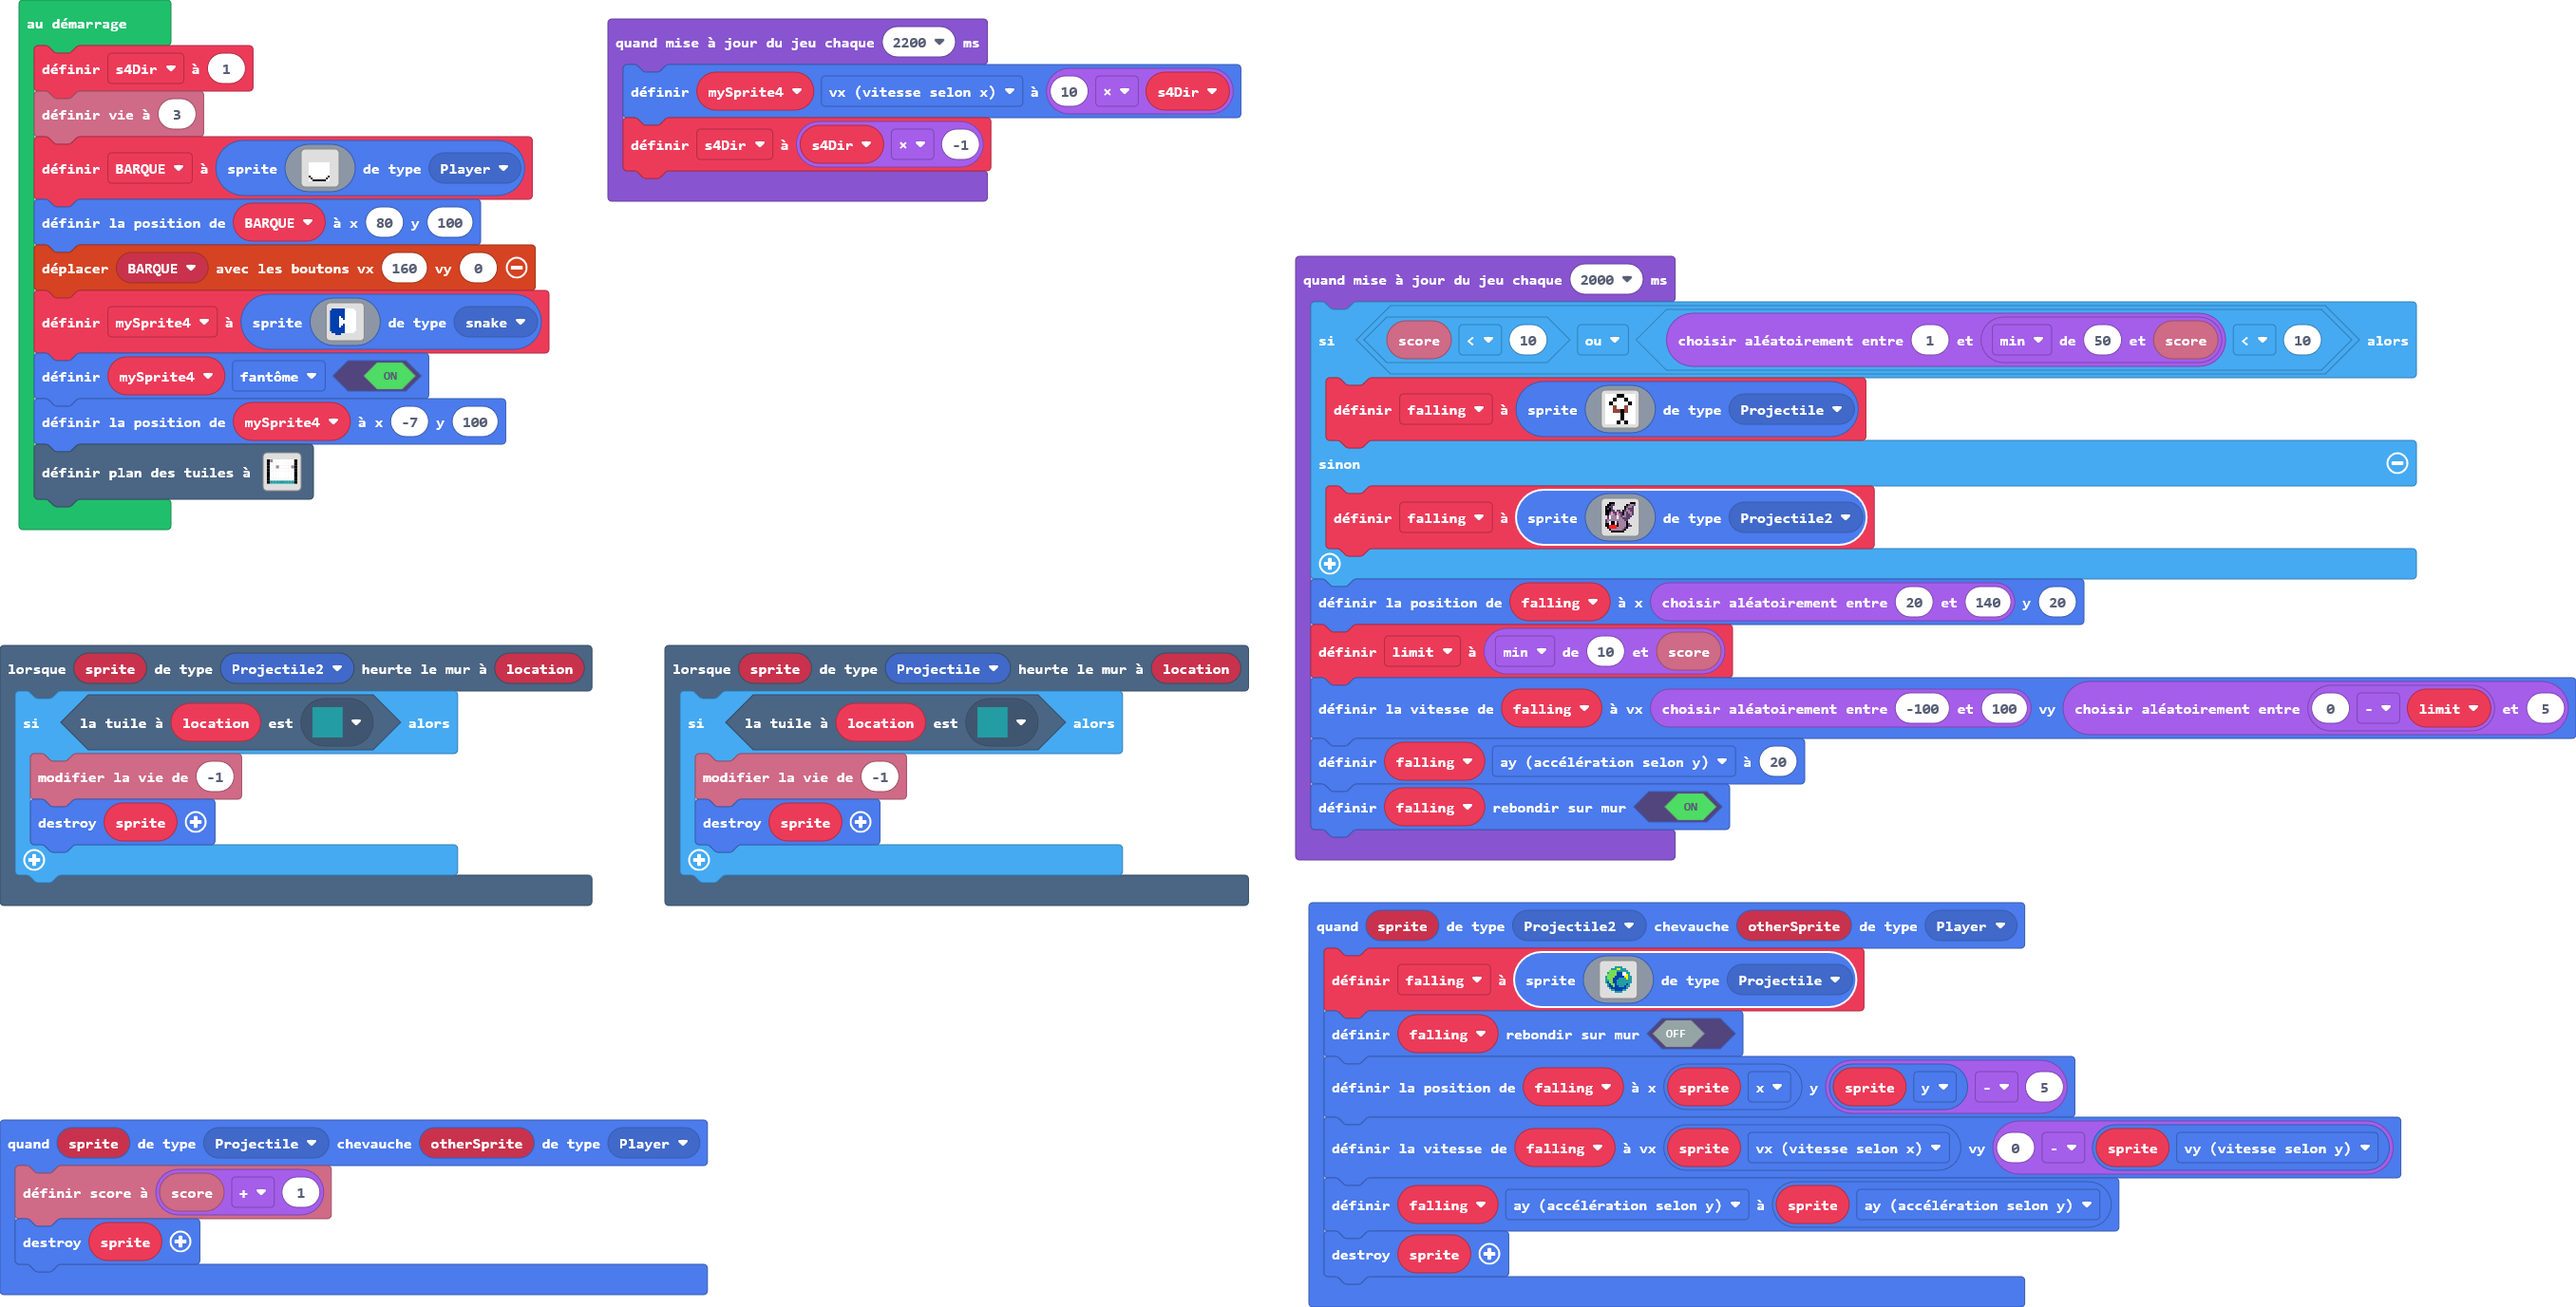
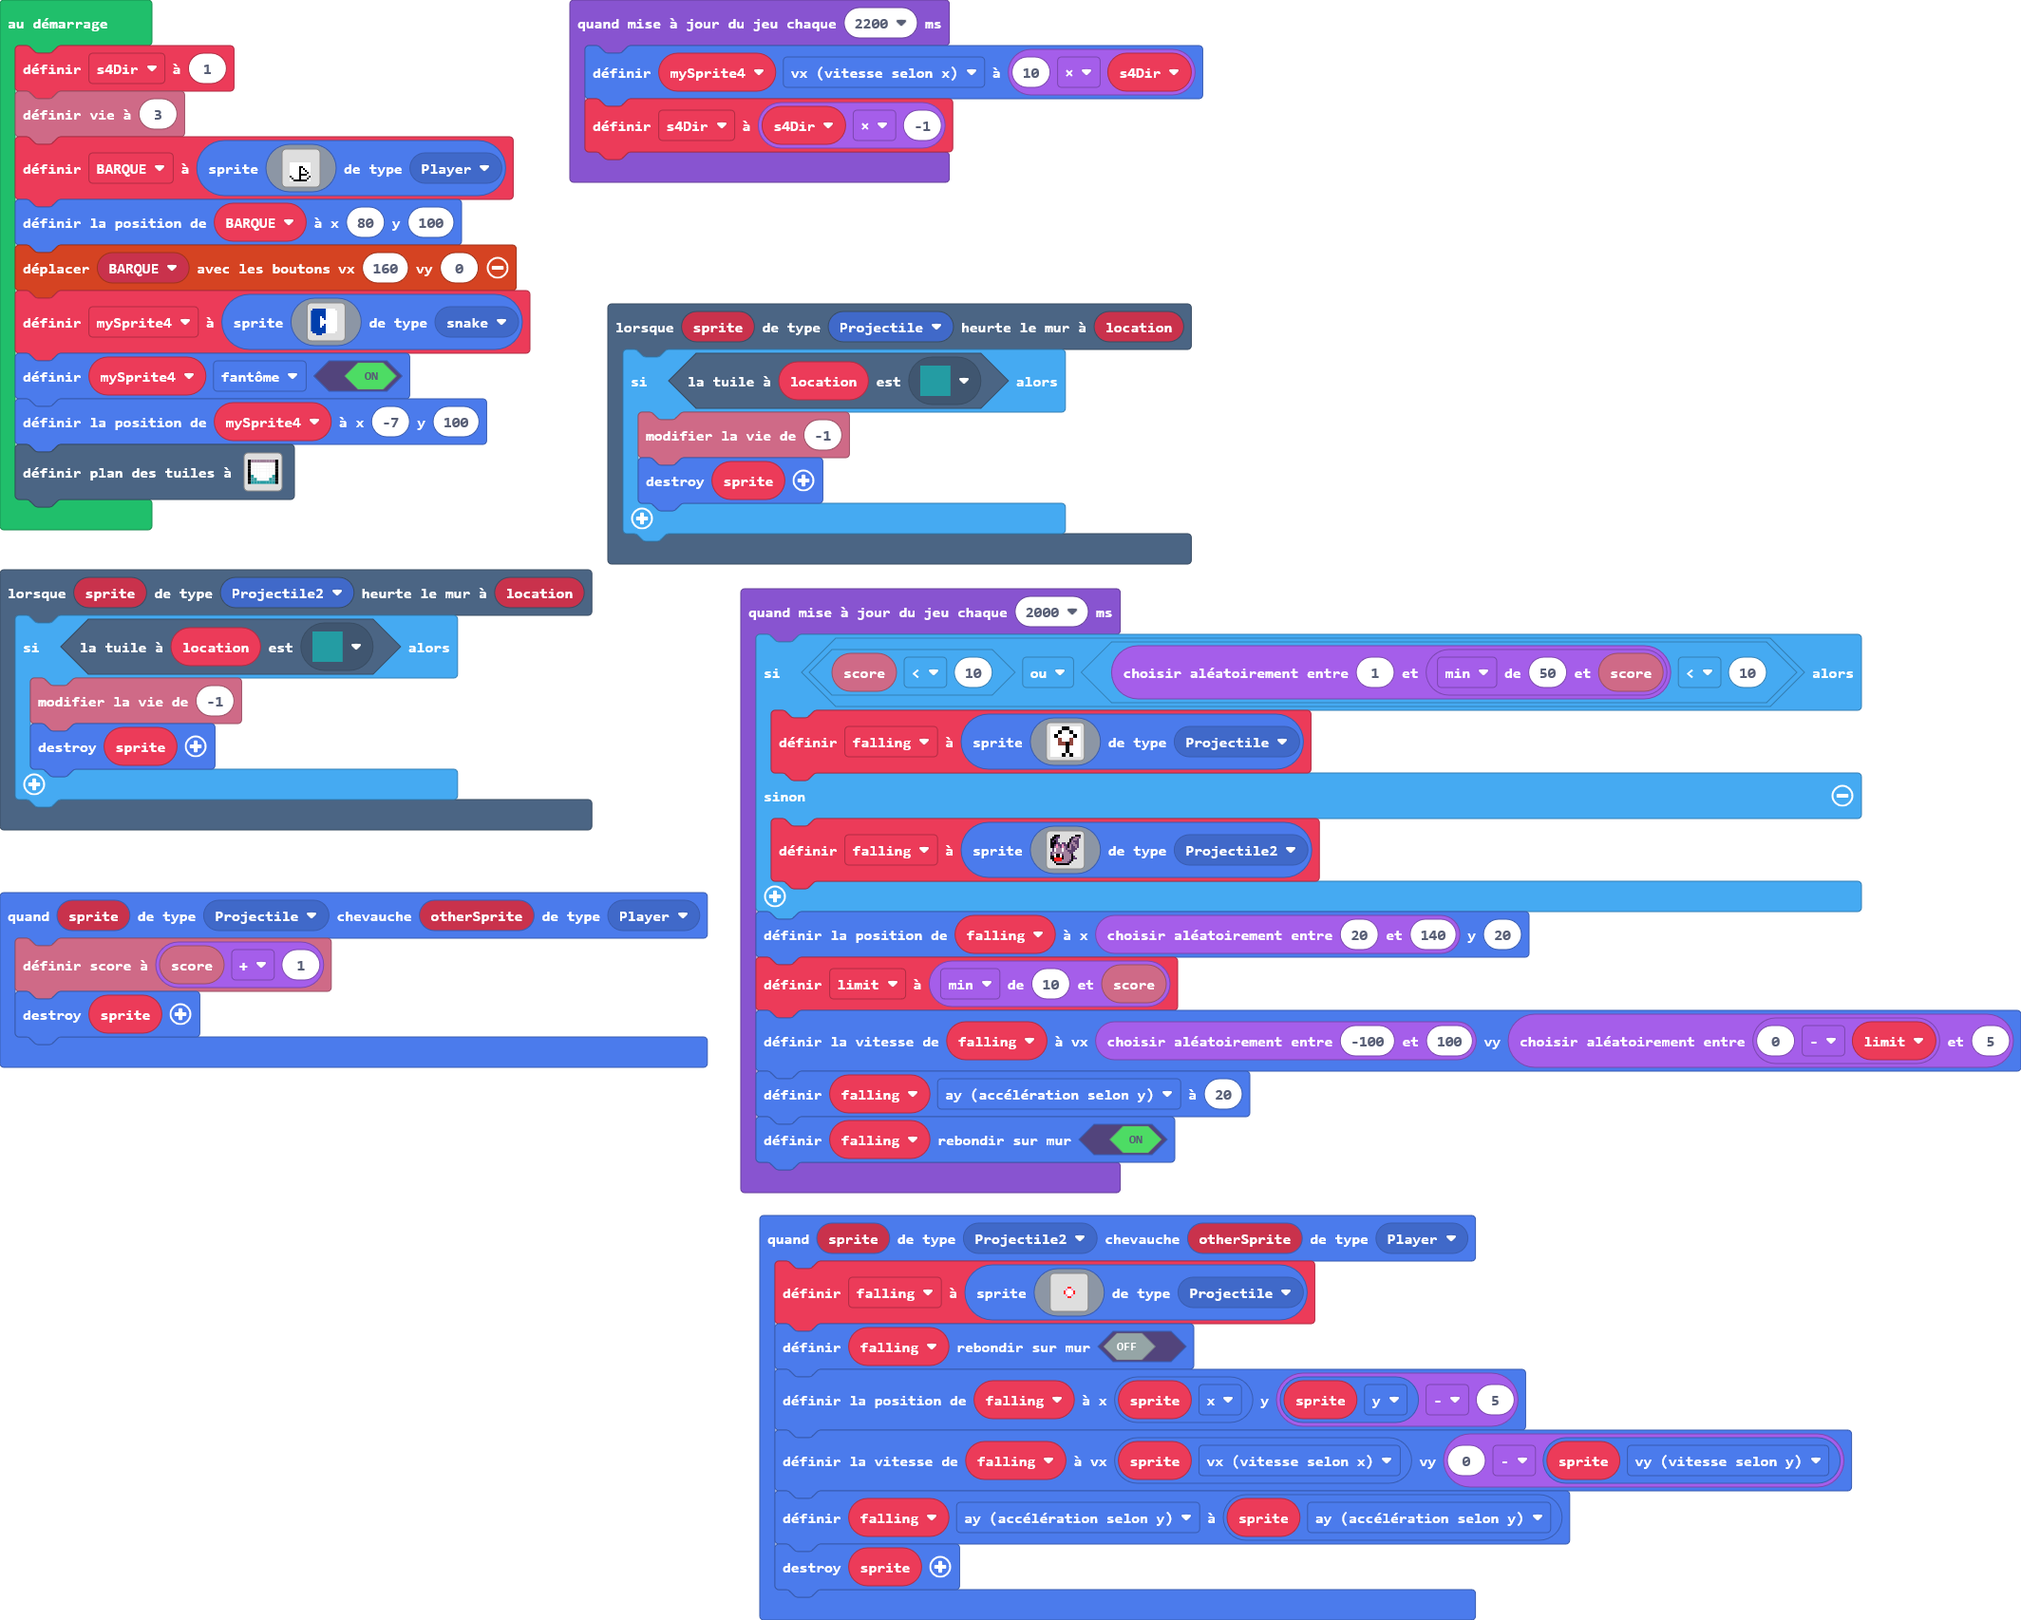
Mise à jour main.blocks, main.ts, tilemap.g.jres, tilemap.g.ts

diff --git a/main.ts b/main.ts
@@ -5,20 +5,20 @@ namespace SpriteKind {
 sprites.onOverlap(SpriteKind.Projectile2, SpriteKind.Player, function (sprite, otherSprite) {
     falling = sprites.create(img`
         . . . . . . . . . . . . . . . . 
-        . . . . . . 6 6 6 6 . . . . . . 
-        . . . . 6 6 6 5 5 6 6 6 . . . . 
-        . . . 7 7 7 7 6 6 6 6 6 6 . . . 
-        . . 6 7 7 7 7 8 8 8 1 1 6 6 . . 
-        . . 7 7 7 7 7 8 8 8 1 1 5 6 . . 
-        . 6 7 7 7 7 8 8 8 8 8 5 5 6 6 . 
-        . 6 7 7 7 8 8 8 6 6 6 6 5 6 6 . 
-        . 6 6 7 7 8 8 6 6 6 6 6 6 6 6 . 
-        . 6 8 7 7 8 8 6 6 6 6 6 6 6 6 . 
-        . . 6 8 7 7 8 6 6 6 6 6 8 6 . . 
-        . . 6 8 8 7 8 8 6 6 6 8 6 6 . . 
-        . . . 6 8 8 8 8 8 8 8 8 6 . . . 
-        . . . . 6 6 8 8 8 8 6 6 . . . . 
-        . . . . . . 6 6 6 6 . . . . . . 
+        . . . . . . . . . . . . . . . . 
+        . . . . . . . . . . . . . . . . 
+        . . . . . . . . . . . . . . . . 
+        . . . . . . . . . . . . . . . . 
+        . . . . . . . 2 2 . . . . . . . 
+        . . . . . . 3 1 1 3 . . . . . . 
+        . . . . . 2 1 1 1 1 2 . . . . . 
+        . . . . . 2 1 1 1 1 2 . . . . . 
+        . . . . . . 3 1 1 3 . . . . . . 
+        . . . . . . . 2 2 . . . . . . . 
+        . . . . . . . . . . . . . . . . 
+        . . . . . . . . . . . . . . . . 
+        . . . . . . . . . . . . . . . . 
+        . . . . . . . . . . . . . . . . 
         . . . . . . . . . . . . . . . . 
         `, SpriteKind.Projectile)
     falling.setBounceOnWall(false)
@@ -55,13 +55,13 @@ let BARQUE = sprites.create(img`
     . . . . . . . . . . . . . . . . 
     . . 1 1 1 1 1 1 1 1 1 1 1 . . . 
     . . 1 1 1 1 1 1 1 1 1 1 1 . . . 
-    . . 1 1 1 1 1 1 1 1 1 1 1 . . . 
-    . . 1 1 1 1 1 1 1 1 1 1 1 . . . 
-    . . 1 1 1 1 1 1 1 1 1 1 1 . . . 
-    . . 1 1 1 1 1 1 1 1 1 1 1 . . . 
-    . . 1 1 1 1 1 1 1 1 1 1 1 . . . 
-    . . f 1 1 1 1 1 1 1 1 1 f . . . 
-    . . 1 f 1 1 1 1 1 1 1 f 1 . . . 
+    . . 1 1 1 1 1 f f 1 1 1 1 . . . 
+    . . 1 1 1 1 1 f 1 f 1 1 1 . . . 
+    . . 1 1 1 1 1 f 1 1 f 1 1 . . . 
+    . . 1 1 1 1 1 f 1 1 1 f 1 . . . 
+    . . 1 1 1 1 1 f f f f 1 1 . . . 
+    . . f 1 1 1 1 f 1 1 1 1 f . . . 
+    . . 1 f 1 1 1 f 1 1 1 f 1 . . . 
     . . 1 1 f f f f f f f 1 1 . . . 
     . . . . . . . . . . . . . . . . 
     `, SpriteKind.Player)

diff --git a/tilemap.g.ts b/tilemap.g.ts
@@ -14,7 +14,7 @@ namespace myTiles {
     helpers._registerFactory("tilemap", function(name: string) {
         switch(helpers.stringTrim(name)) {
             case "level":
[2 lines of base64/hex data omitted]
 2 . . . . . . . . 2 
 2 . . . . . . . . 2 
 2 . . . . . . . . 2 
@@ -23,7 +23,7 @@ namespace myTiles {
 2 . . . . . . . . 2 
 2 . . . . . . . . 2 
 2 2 2 2 2 2 2 2 2 2 
-`, [myTiles.tile0,myTiles.tile1,myTiles.tile2,myTiles.tile3,sprites.castle.rock0], TileScale.Sixteen);
+`, [myTiles.tile0,myTiles.tile1,myTiles.tile2,myTiles.tile3,sprites.castle.rock2,sprites.castle.tileDarkGrass3,sprites.castle.tileDarkGrass2,sprites.castle.tileDarkGrass1], TileScale.Sixteen);
         }
         return null;
     })
